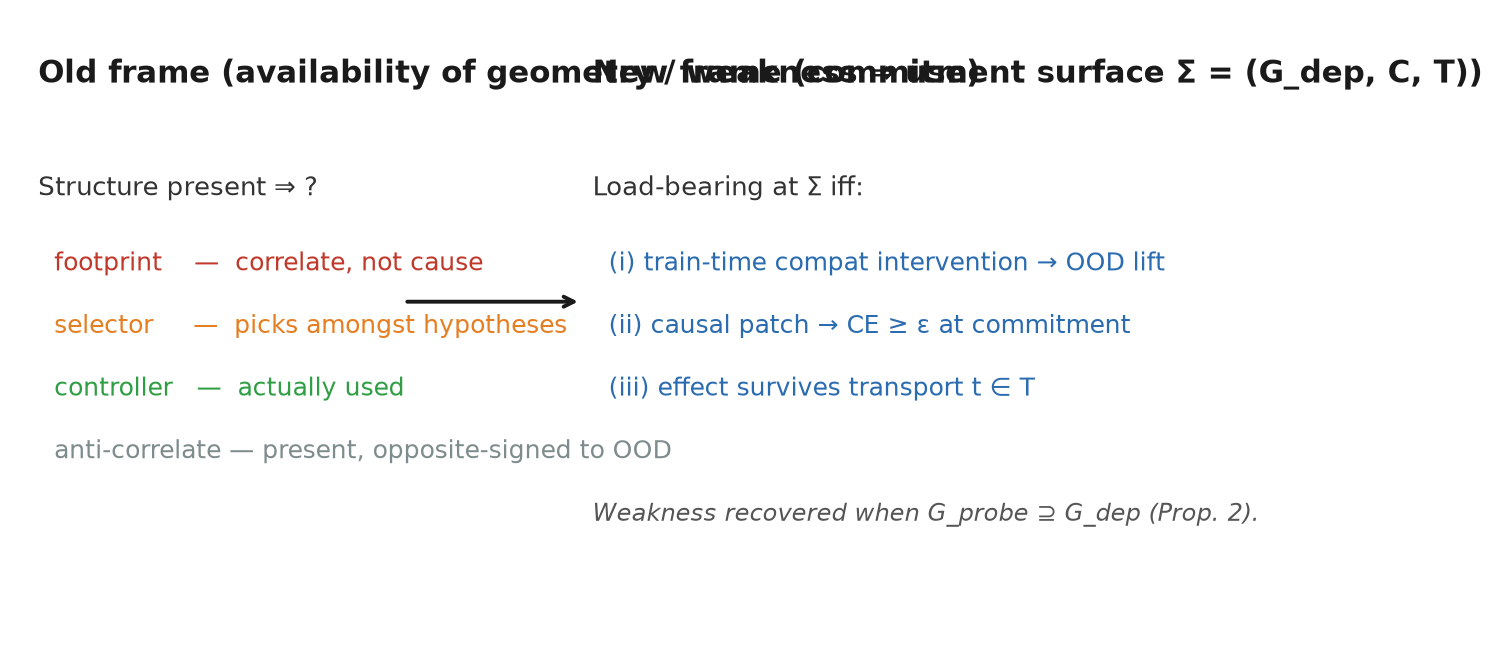
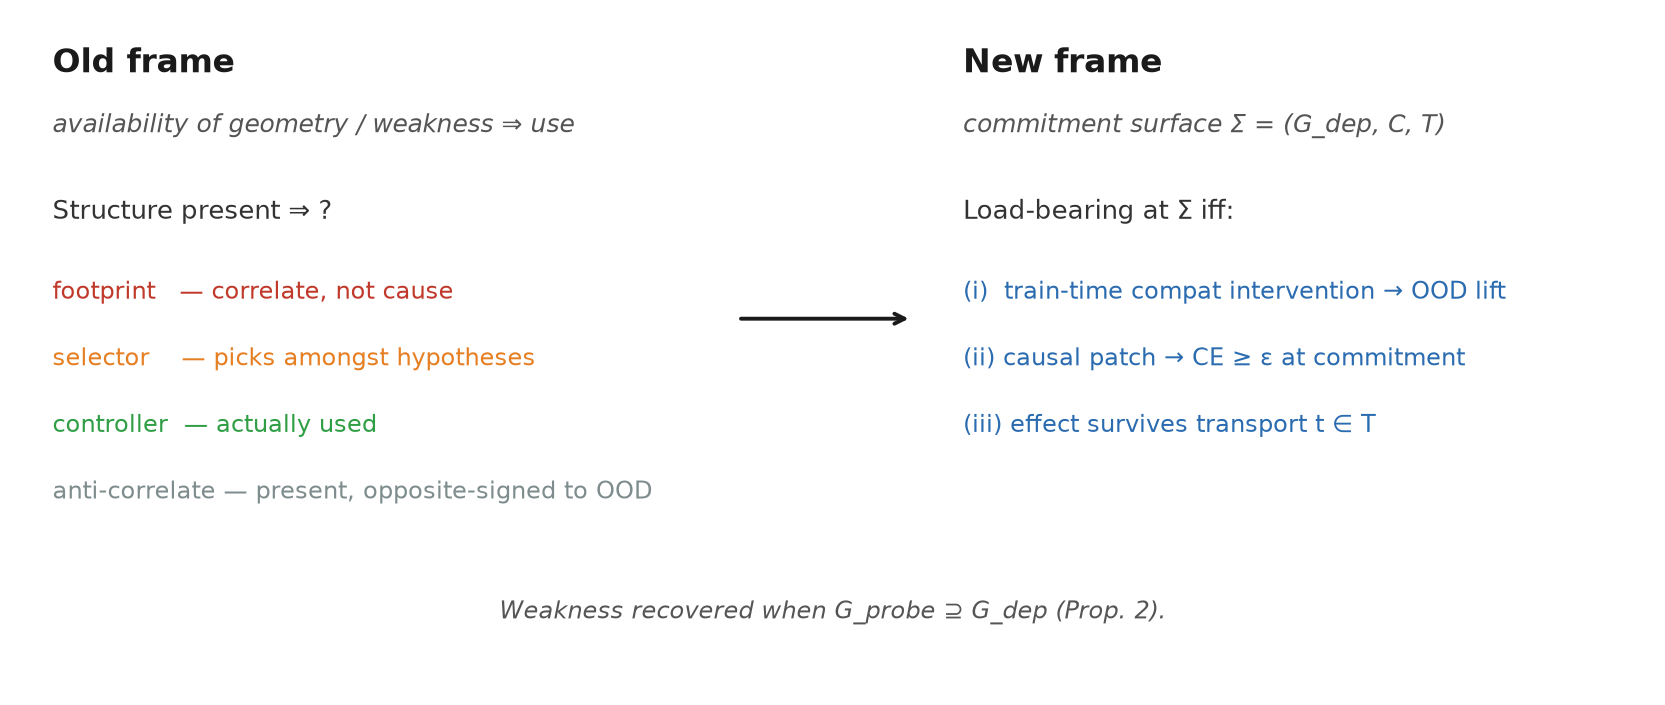
Fix figure 5 title overlap (#337)
* Add commitment-surface reframe: paper, four severe tests, PDF pipeline.

Reframes the program's protected assumption ("right geometry ⇒
load-bearing") into commitment-surface survival: a representation is
load-bearing at a deployment iff a train-time compatibility intervention
lifts OOD, causal patching yields CE ≥ ε, and the effect survives
transport under gauge-fix. Compresses the prior anomaly map (P1 hard
kill, semantic concern lift −0.441, grid non-mediation, shared-head
ceiling, Suite C cooling requirement) without discarding cyclic/dihedral
positives — those become the aligned-generator special case.

Ships four pre-registered severe tests:

- E1 (extension arithmetic; 96 cells). Well-specified concern-weighted
  selector 0.814 vs unweighted 0.570 vs misspec 0.516; gap +0.244; misspec
  slightly below unweighted (Corollary direction confirmed).
- E2/E3 (neural MLP sweep; 216 cells). Compat-augmented arm B mean OOD
  1.000 vs readout arm A 0.007 (gap +0.99); B patch-CE Δ +0.76 vs A
  +0.005; wrong-group C anti-cheat gap −0.0004; ρ(weakness, OOD) 0.917
  in the aligned regime.
- E4 (Modal L4 Pythia LoRA modular addition v2). Smoke n=13 arm A OOD
  0.0 (reproduces P1 hard kill) vs arm B OOD 0.714, patch-CE +7.19,
  ρ(patch-CE, OOD) 1.0 vs ρ(weakness, OOD) 0.0 (weakness fully decouples
  from OOD in the non-aligned Pythia LoRA regime). Full A/B/C/D grid on
  70m/160m/410m × n ∈ {13,17,23} × 3 seeds is running.
[…]

diff --git a/scripts/make_commitment_surface_figures.py b/scripts/make_commitment_surface_figures.py
@@ -266,29 +266,49 @@ def make_frame_taxonomy_figure() -> str:
     """Schematic: old-frame taxonomy (footprint / selector / controller /
     anti-correlate) collapsed into the new-frame primitive: commitment-
     surface survival."""
-    fig, ax = plt.subplots(figsize=(7.2, 3.4))
+    fig, ax = plt.subplots(figsize=(8.4, 3.6))
     ax.axis("off")
-    ax.text(0.02, 0.90, "Old frame (availability of geometry / weakness ⇒ use)",
-            fontsize=11, weight="bold", color="#1a1a1a")
-    ax.text(0.02, 0.72, "Structure present ⇒ ?", fontsize=9.5, color="#333")
-    ax.text(0.02, 0.60, "  footprint    —  correlate, not cause", fontsize=9, color="#c0392b")
-    ax.text(0.02, 0.50, "  selector     —  picks amongst hypotheses", fontsize=9, color="#e67e22")
-    ax.text(0.02, 0.40, "  controller   —  actually used", fontsize=9, color="#2f9e44")
-    ax.text(0.02, 0.30, "  anti-correlate — present, opposite-signed to OOD", fontsize=9, color="#7f8c8d")
+    ax.set_xlim(0, 1)
+    ax.set_ylim(0, 1)
 
+    # Left column: old frame.
+    ax.text(0.02, 0.92, "Old frame", fontsize=12, weight="bold", color="#1a1a1a")
+    ax.text(0.02, 0.83, "availability of geometry / weakness ⇒ use",
+            fontsize=9, color="#555", style="italic")
+    ax.text(0.02, 0.70, "Structure present ⇒ ?", fontsize=9.5, color="#333")
+    ax.text(0.02, 0.58, "footprint   — correlate, not cause",
+            fontsize=8.8, color="#c0392b")
+    ax.text(0.02, 0.48, "selector    — picks amongst hypotheses",
+            fontsize=8.8, color="#e67e22")
+    ax.text(0.02, 0.38, "controller  — actually used",
+            fontsize=8.8, color="#2f9e44")
+    ax.text(0.02, 0.28, "anti-correlate — present, opposite-signed to OOD",
+            fontsize=8.8, color="#7f8c8d")
+
+    # Arrow in the middle gap.
     ax.annotate(
         "",
-        xy=(0.62, 0.55), xytext=(0.42, 0.55),
+        xy=(0.55, 0.55), xytext=(0.44, 0.55),
         arrowprops={"arrowstyle": "->", "lw": 1.4, "color": "#1a1a1a"},
     )
-    ax.text(0.63, 0.90, "New frame (commitment surface Σ = (G_dep, C, T))",
-            fontsize=11, weight="bold", color="#1a1a1a")
-    ax.text(0.63, 0.72, "Load-bearing at Σ iff:", fontsize=9.5, color="#333")
-    ax.text(0.63, 0.60, "  (i) train-time compat intervention → OOD lift", fontsize=9, color="#2b6cb0")
-    ax.text(0.63, 0.50, "  (ii) causal patch → CE ≥ ε at commitment", fontsize=9, color="#2b6cb0")
-    ax.text(0.63, 0.40, "  (iii) effect survives transport t ∈ T", fontsize=9, color="#2b6cb0")
-    ax.text(0.63, 0.20, "Weakness recovered when G_probe ⊇ G_dep (Prop. 2).",
-            fontsize=8.5, color="#555", style="italic")
+
+    # Right column: new frame. Start well past the arrow's tip.
+    ax.text(0.58, 0.92, "New frame", fontsize=12, weight="bold", color="#1a1a1a")
+    ax.text(0.58, 0.83, "commitment surface Σ = (G_dep, C, T)",
+            fontsize=9, color="#555", style="italic")
+    ax.text(0.58, 0.70, "Load-bearing at Σ iff:", fontsize=9.5, color="#333")
+    ax.text(0.58, 0.58, "(i)  train-time compat intervention → OOD lift",
+            fontsize=8.8, color="#2b6cb0")
+    ax.text(0.58, 0.48, "(ii) causal patch → CE ≥ ε at commitment",
+            fontsize=8.8, color="#2b6cb0")
+    ax.text(0.58, 0.38, "(iii) effect survives transport t ∈ T",
+            fontsize=8.8, color="#2b6cb0")
+
+    # Bottom footer spanning the width.
+    ax.text(0.5, 0.10,
+            "Weakness recovered when G_probe ⊇ G_dep (Prop. 2).",
+            fontsize=8.5, color="#555", style="italic",
+            ha="center")
     path = PAPER_FIG / "fig5_frame_taxonomy.png"
     _save(fig, path)
     return str(path)